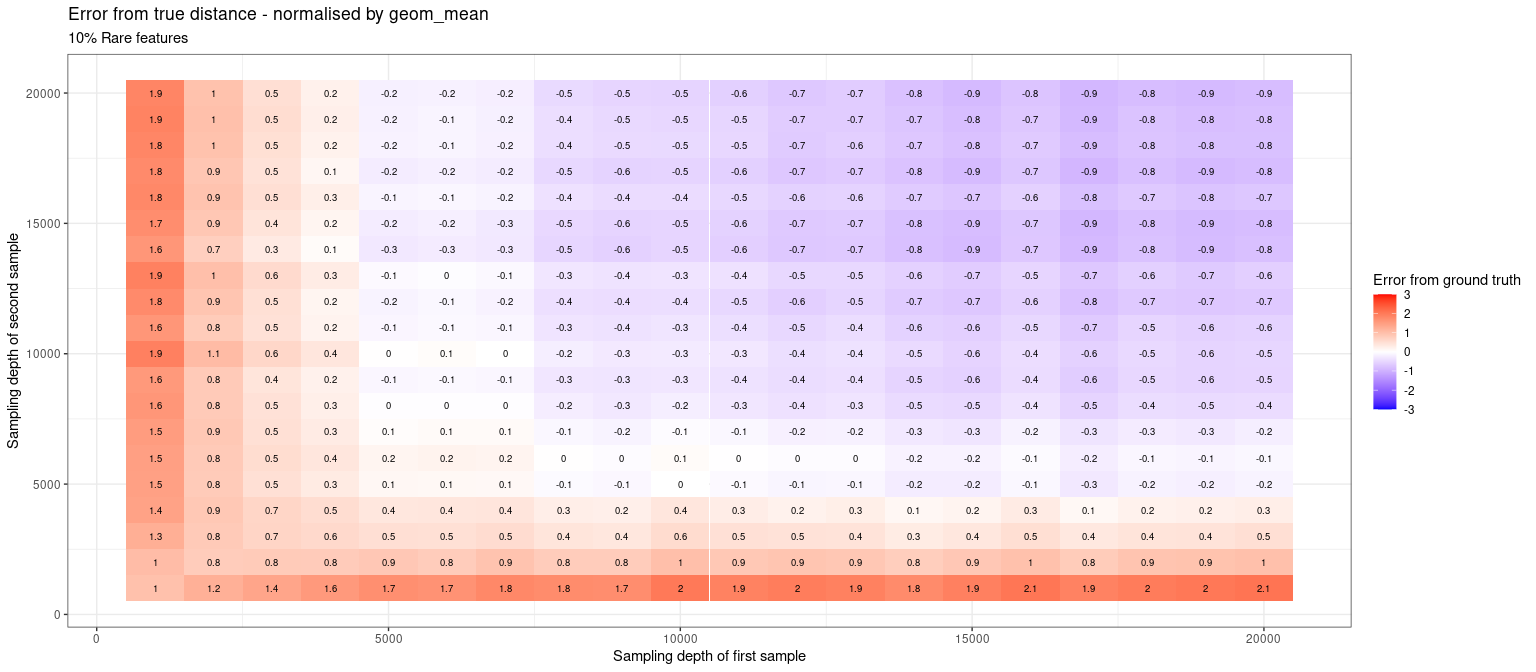
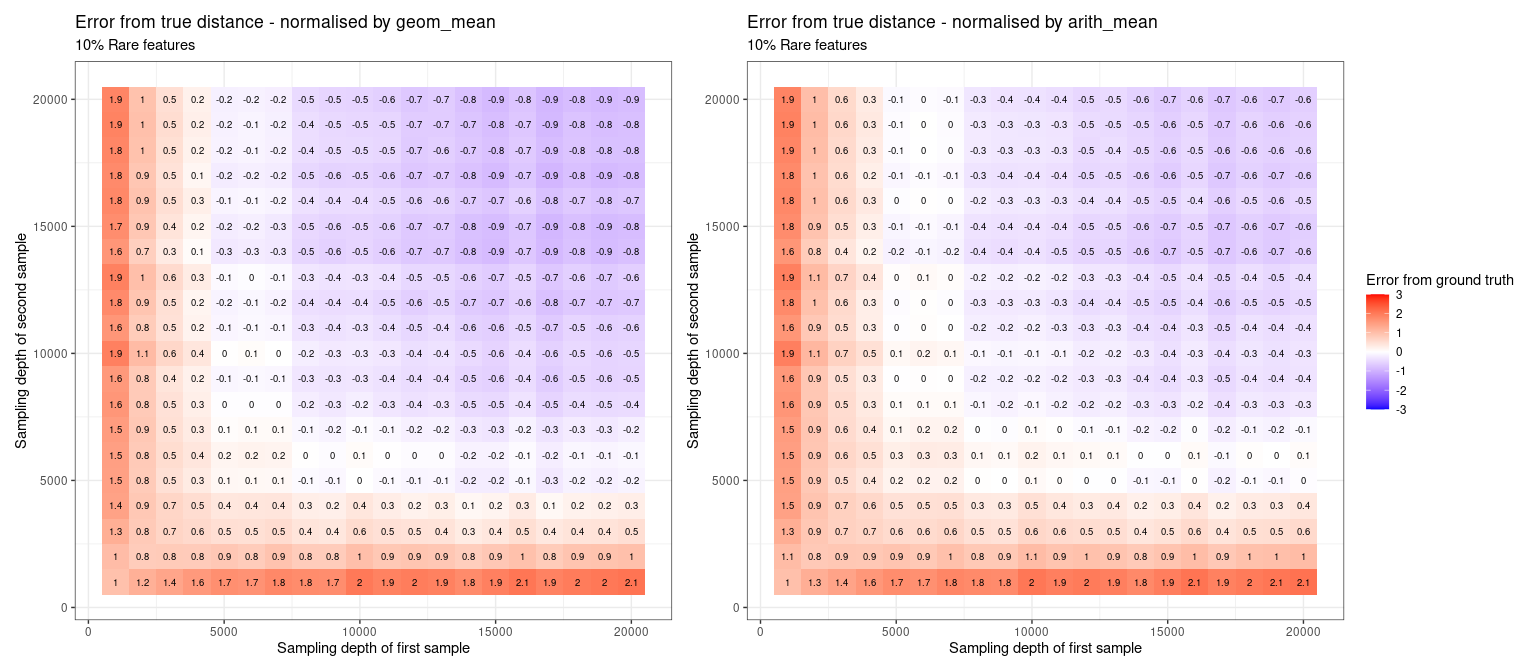
update

diff --git a/docs/bootstrapping_distance.md b/docs/bootstrapping_distance.md
@@ -134,6 +134,96 @@ long_dist2 = data.frame(as.matrix(est.dist)) %>%
     ## argument.
 
 ``` r
+p_geom_mean <- data.frame(as.matrix(est.dist)) %>% 
+  rownames_to_column("ID") %>% 
+  pivot_longer(!ID) %>% 
+  
+  filter(!str_detect(ID,"\\.")) %>% 
+  mutate(ID = str_remove(ID, "X")) %>% 
+  mutate(ID = str_remove(ID, "V")) %>% 
+  
+  
+  mutate(name = str_remove(name, "\\.")) %>% 
+  mutate(name = str_remove(name, "X")) %>% 
+  mutate(name = str_remove(name, "V")) %>% 
+  
+  filter(as.numeric(ID)   <= 201) %>% 
+  filter(as.numeric(name) >  201) %>% 
+  filter(name != ID) %>% 
+  
+  mutate(ID   = dep[ID]) %>% 
+  mutate(name = dep[name]) %>% 
+  group_by(ID,name) %>% 
+  summarise(mean = mean(value),
+            var  = var(value)) %>% 
+  ungroup() %>% 
+  mutate(mean_s1 = long_dist1$mean, 
+         mean_s2 = long_dist2$mean) %>% 
+  mutate(mean_s = (mean_s1 + mean_s2)/2) %>% 
+  mutate(mean_offset = sqrt((mean *  mean_s)) ) %>% 
+  mutate(mean_from_20 = mean_offset - sqrt(20)) %>% 
+  
+  ggplot() +
+  aes(x = ID, y = name, fill = mean_from_20, label = round(mean_from_20, 1)) +
+  
+  geom_tile() +
+  geom_text(colour = "black", size = 2.5) +
+  scale_fill_gradient2(low = "blue", high = "red", mid = "white", midpoint = 0, limits = c(-3,3), "Error from ground truth") +
+  theme_bw() +
+  ggtitle("Error from true distance - normalised by geom_mean", subtitle = "10% Rare features") +
+  xlab("Sampling depth of first sample") +
+  ylab("Sampling depth of second sample")
+```
+
+    ## `summarise()` has grouped output by 'ID'. You can override using the `.groups`
+    ## argument.
+
+``` r
+p_arith_mean <- data.frame(as.matrix(est.dist)) %>% 
+  rownames_to_column("ID") %>% 
+  pivot_longer(!ID) %>% 
+  
+  filter(!str_detect(ID,"\\.")) %>% 
+  mutate(ID = str_remove(ID, "X")) %>% 
+  mutate(ID = str_remove(ID, "V")) %>% 
+  
+  
+  mutate(name = str_remove(name, "\\.")) %>% 
+  mutate(name = str_remove(name, "X")) %>% 
+  mutate(name = str_remove(name, "V")) %>% 
+  
+  filter(as.numeric(ID)   <= 201) %>% 
+  filter(as.numeric(name) >  201) %>% 
+  filter(name != ID) %>% 
+  
+  mutate(ID   = dep[ID]) %>% 
+  mutate(name = dep[name]) %>% 
+  group_by(ID,name) %>% 
+  summarise(mean = mean(value),
+            var  = var(value)) %>% 
+  ungroup() %>% 
+  mutate(mean_s1 = long_dist1$mean, 
+         mean_s2 = long_dist2$mean) %>% 
+  mutate(mean_s = (mean_s1 + mean_s2)/2) %>% 
+  mutate(mean_offset = (mean +  mean_s)/2 ) %>% 
+  mutate(mean_from_20 = mean_offset - sqrt(20)) %>% 
+  
+  ggplot() +
+  aes(x = ID, y = name, fill = mean_from_20, label = round(mean_from_20, 1)) +
+  
+  geom_tile() +
+  geom_text(colour = "black", size = 2.5) +
+  scale_fill_gradient2(low = "blue", high = "red", mid = "white", midpoint = 0, limits = c(-3,3), "Error from ground truth") +
+  theme_bw() +
+  ggtitle("Error from true distance - normalised by arith_mean", subtitle = "10% Rare features") +
+  xlab("Sampling depth of first sample") +
+  ylab("Sampling depth of second sample")
+```
+
+    ## `summarise()` has grouped output by 'ID'. You can override using the `.groups`
+    ## argument.
+
+``` r
 data.frame(as.matrix(est.dist)) %>% 
   rownames_to_column("ID") %>% 
   pivot_longer(!ID) %>% 
@@ -317,95 +407,7 @@ long_dist2 %>%
 ![](bootstrapping_distance_files/figure-gfm/plot-3.png)<!-- -->
 
 ``` r
-data.frame(as.matrix(est.dist)) %>% 
-  rownames_to_column("ID") %>% 
-  pivot_longer(!ID) %>% 
-  
-  filter(!str_detect(ID,"\\.")) %>% 
-  mutate(ID = str_remove(ID, "X")) %>% 
-  mutate(ID = str_remove(ID, "V")) %>% 
-  
-  
-  mutate(name = str_remove(name, "\\.")) %>% 
-  mutate(name = str_remove(name, "X")) %>% 
-  mutate(name = str_remove(name, "V")) %>% 
-  
-  filter(as.numeric(ID)   <= 201) %>% 
-  filter(as.numeric(name) >  201) %>% 
-  filter(name != ID) %>% 
-  
-  mutate(ID   = dep[ID]) %>% 
-  mutate(name = dep[name]) %>% 
-  group_by(ID,name) %>% 
-  summarise(mean = mean(value),
-            var  = var(value)) %>% 
-  ungroup() %>% 
-  mutate(mean_s1 = long_dist1$mean, 
-         mean_s2 = long_dist2$mean) %>% 
-  mutate(mean_s = (mean_s1 + mean_s2)/2) %>% 
-  mutate(mean_offset = sqrt((mean *  mean_s)) ) %>% 
-  mutate(mean_from_20 = mean_offset - sqrt(20)) %>% 
-  
-  ggplot() +
-  aes(x = ID, y = name, fill = mean_from_20, label = round(mean_from_20, 1)) +
-  
-  geom_tile() +
-  geom_text(colour = "black", size = 2.5) +
-  scale_fill_gradient2(low = "blue", high = "red", mid = "white", midpoint = 0, limits = c(-3,3), "Error from ground truth") +
-  theme_bw() +
-  ggtitle("Error from true distance - normalised by geom_mean", subtitle = "10% Rare features") +
-  xlab("Sampling depth of first sample") +
-  ylab("Sampling depth of second sample")
+p_geom_mean + p_arith_mean + plot_layout(guides = 'collect')
 ```
-
-    ## `summarise()` has grouped output by 'ID'. You can override using the `.groups`
-    ## argument.
 
 ![](bootstrapping_distance_files/figure-gfm/plot-4.png)<!-- -->
-
-``` r
-data.frame(as.matrix(est.dist)) %>% 
-  rownames_to_column("ID") %>% 
-  pivot_longer(!ID) %>% 
-  
-  filter(!str_detect(ID,"\\.")) %>% 
-  mutate(ID = str_remove(ID, "X")) %>% 
-  mutate(ID = str_remove(ID, "V")) %>% 
-  
-  
-  mutate(name = str_remove(name, "\\.")) %>% 
-  mutate(name = str_remove(name, "X")) %>% 
-  mutate(name = str_remove(name, "V")) %>% 
-  
-  filter(as.numeric(ID)   <= 201) %>% 
-  filter(as.numeric(name) >  201) %>% 
-  filter(name != ID) %>% 
-  
-  mutate(ID   = dep[ID]) %>% 
-  mutate(name = dep[name]) %>% 
-  group_by(ID,name) %>% 
-  summarise(mean = mean(value),
-            var  = var(value)) %>% 
-  ungroup() %>% 
-  mutate(mean_s1 = long_dist1$mean, 
-         mean_s2 = long_dist2$mean) %>% 
-  mutate(mean_s = (mean_s1 + mean_s2)/2) %>% 
-  mutate(mean_offset = (mean +  mean_s)/2 ) %>% 
-  mutate(mean_from_20 = mean_offset - sqrt(20)) %>% 
-  
-  ggplot() +
-  aes(x = ID, y = name, fill = mean_from_20, label = round(mean_from_20, 1)) +
-  
-  geom_tile() +
-  geom_text(colour = "black", size = 2.5) +
-  scale_fill_gradient2(low = "blue", high = "red", mid = "white", midpoint = 0, limits = c(-3,3), "Error from ground truth") +
-  theme_bw() +
-  ggtitle("Error from true distance - normalised by arith_mean", subtitle = "10% Rare features") +
-  xlab("Sampling depth of first sample") +
-  ylab("Sampling depth of second sample")
-```
-
-    ## `summarise()` has grouped output by 'ID'. You can override using the `.groups`
-    ## argument.
-
-![](bootstrapping_distance_files/figure-gfm/plot-5.png)<!-- -->
